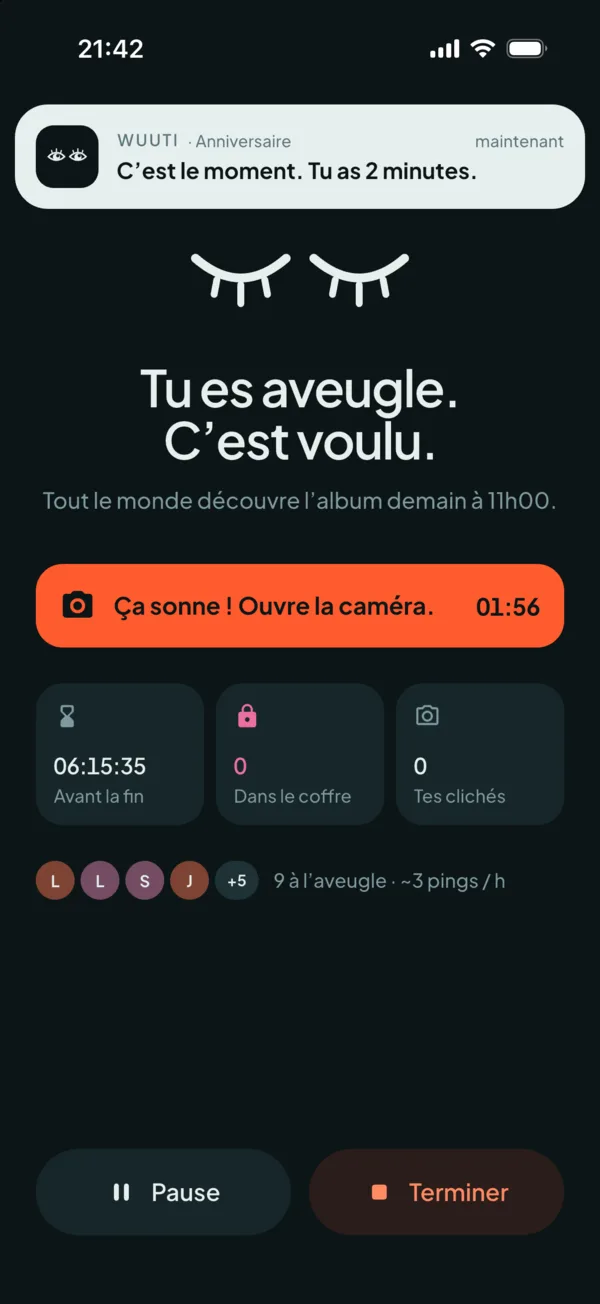
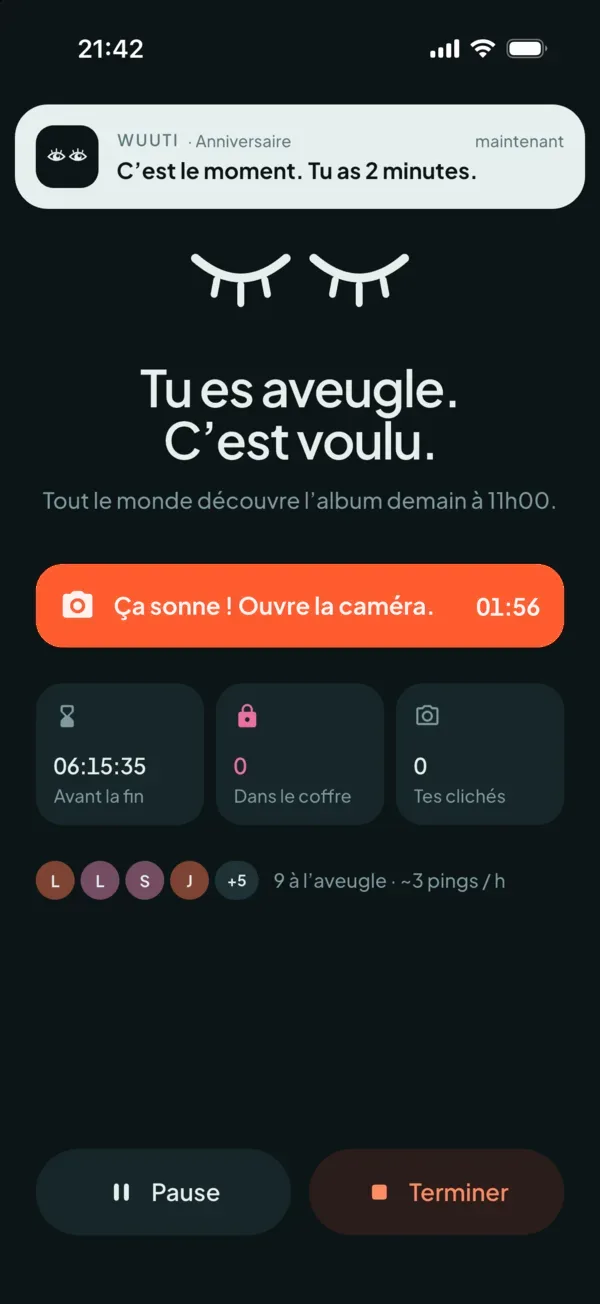
Capture « Ça sonne » : texte du bouton en blanc

Changed region(s): [[0.18, 0.4601, 0.72, 0.4908], [0.78, 0.4601, 0.9, 0.4908], [0.09, 0.4294, 0.15, 0.4908]]

diff --git a/index.html b/index.html
@@ -234,7 +234,7 @@
         <div class="ritual__grid">
           <div class="ritual__stage" aria-hidden="true">
             <div class="phone phone--stage">
-              <img class="is-active" data-ritual-img="0" src="assets/screens/22-ping-notif.webp" alt="" width="600" height="1305" loading="lazy" />
+              <img class="is-active" data-ritual-img="0" src="assets/screens/22-ping-notif.webp?v=2" alt="" width="600" height="1305" loading="lazy" />
               <img data-ritual-img="1" src="assets/screens/21-live.webp" alt="" width="600" height="1305" loading="lazy" />
               <img data-ritual-img="2" src="assets/screens/29-coffre-ouvert.webp" alt="" width="600" height="1305" loading="lazy" />
             </div>
@@ -244,7 +244,7 @@
               <span class="ritual__icon"><svg class="icon" aria-hidden="true"><use href="#i-bell-ringing"/></svg></span>
               <h3>Ça sonne.</h3>
               <p>Chacun reçoit ses pings à un moment différent. Deux minutes pour dégainer, caméra avant ou arrière, sans filtre.</p>
-              <img class="ritual__inline" src="assets/screens/22-ping-notif.webp" alt="Notification Wuuti : c'est le moment, tu as 2 minutes." width="600" height="1305" loading="lazy" />
+              <img class="ritual__inline" src="assets/screens/22-ping-notif.webp?v=2" alt="Notification Wuuti : c'est le moment, tu as 2 minutes." width="600" height="1305" loading="lazy" />
             </li>
             <li class="ritual__step" data-ritual-step="1">
               <span class="ritual__icon"><svg class="icon" aria-hidden="true"><use href="#i-lock-simple"/></svg></span>
